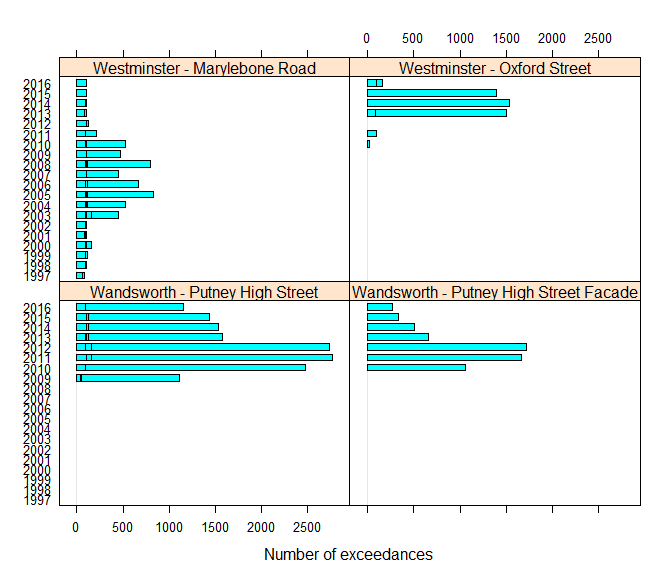
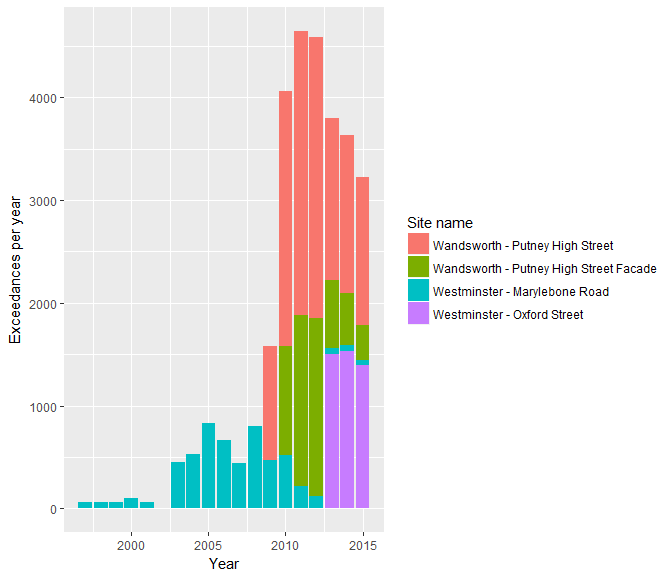
Add files via upload

Changed region(s): [[0.0, 0.0312, 0.9688, 1.0]]

diff --git a/README.md b/README.md
@@ -16,7 +16,7 @@ Justin Lingard : [prejjnl@gmail.com](prejjnl@gmail.com)
 The ```rlaqn``` package depends some additional CRAN packages. Check for missing dependencies and install them using the commands below:
 
 ```r
-> packs <- c('dplyr', 'htmlwidgets', 'jsonlite', 'lattice', 'leaflet', 'mapview')
+> packs <- c('dplyr', 'ggplot2', 'htmlwidgets', 'jsonlite', 'leaflet', 'mapview')
 > new.packages <- packs[!(packs %in% installed.packages()[, 'Package'])]
 > if(length(new.packages)) install.packages(new.packages)
 ```
@@ -36,13 +36,13 @@ Load the ```rlaqn``` package:
 
 # Functions
 ## ```get_laqn_aq_objectives```
-```get_laqn_aq_objectives``` imports pre-calculated air quality statistics from the London Air API for air pollutants for which national [air quality objectives](https://uk-air.defra.gov.uk/assets/documents/National_air_quality_objectives.pdf) exist, this includes:
+```get_laqn_aq_objectives``` imports the pre-calculated air quality objectives for air pollutants for which national [air quality objectives](https://uk-air.defra.gov.uk/assets/documents/National_air_quality_objectives.pdf) exist:
 
-+ Carbon monoxide, CO
-+ Nitrogen dioxide, NO<sub>2</sub>
-+ Ozone, O<sub>3</sub>
-+ Sulphur dioxide, SO<sub>2</sub>, and
-+ Particulate matter, PM<sub>10</sub>.
++ carbon monoxide, CO
++ nitrogen dioxide, NO<sub>2</sub>
++ ozone, O<sub>3</sub>
++ sulphur dioxide, SO<sub>2</sub>, and
++ particulate matter, PM<sub>10</sub>.
 
 Statistics are calculated for each air quality monitoring station in the LAQN, on a year-by-year basis. They are available from the inception of the network in 1993, when it was composed of a few stations, to the much larger, current day network. The use of pre-calculated statistics removes the need to caluclate these metrics from raw, hourly data, and ensures good consistency.
 
@@ -52,7 +52,7 @@ Note: *Ratification of the underlying air quality monitoring data, from which th
 
 The pre-calculated air quality statistics from the London Air API are comparable to those shown under the air quality objective values and capture rates on the Annual Air Quality Report for each air quality monitoring station in the LAQN, c.f., [Annual Air Quality Report for Westminster - Marylebone Road (01/01/2015 to 01/01/2016)](http://www.erg.kcl.ac.uk/weeklysitereport/asrstats.asp?site=MY1&startdate=1-Jan-2015).
 
-Site meta data, for closed and current air quality monitoring stations in the LAQN, can be obtained using the ```get_laqn_sites``` function, as decsribed below.
+Site meta data, for each past and current air quality monitoring station in the LAQN, can be obtained using the ```get_laqn_sites``` function, as decsribed below.
 
 ```r
 > get_laqn_aq_objectives <- function (theGroup = "London", metric = "Annual",
@@ -60,12 +60,12 @@ Site meta data, for closed and current air quality monitoring stations in the LA
                                       dates = 1980, datee = as.numeric(format(Sys.Date(), "%Y")),
                                       api_type = "Json")
 ```
-By running:
+Running:
 
 ```r
 > aq_objectives <- get_laqn_aq_objectives()
 ```
-returns all the air quality objectives since the inception of the network, even when the start year (```dates```) is set to 1980 (prior to commencement of the network) as data isn't retured for years where no data available.
+returns all the air quality objectives since the inception of the network, even when the start year (```dates```) is set to 1980.  No data is retured for years where there is no data available.
 
 ```r
 > head(aq_objectives)
@@ -99,11 +99,12 @@ returns all the air quality objectives since the inception of the network, even 
 6 1993                                                         Capture Rate (%)    93      YES
 ```
 ## ```get_laqn_sites```
-Site meta data, for closed and current air quality monitoring station in the LAQN, can be obtained using the ```get_laqn_sites``` function, e.g.,
+Site meta data, for each past and current air quality monitoring station in the LAQN, can be obtained using the ```get_laqn_sites``` function, e.g.,
 
 ```r
 > laqn_sites <- get_laqn_sites()
 ```
+
 
 ```r
 > head(laqn_sites)
@@ -177,22 +178,23 @@ Some words about Oxford Street
 ```r
 > # Load the plyr package
 > library(dplyr)
-> westminster_sites <- aq_objectives %>% filter(SiteCode == "MY1" | SiteCode == "WM6" & ObjectiveName == "200 ug/m3 as a 1 hour mean, not to be exceeded more than 18 times a year")
+> westminster_sites <- aq_objectives %>% filter(SiteCode == "MY1" | SiteCode == "WM6") %>% filter(ObjectiveName == "200 ug/m3 as a 1 hour mean, not to be exceeded more than 18 times a year")
 ```
-Frequent elevated hourly NO<sub>2</sub> concentrations occur on Putney High Street, the A209, as well.  Two air quality monitroing stations are located here: The first is Wandsworth - Putney High Street (WA7), the second Wandsworth - Putney High Street Facade (WA8). Putney High Street links traffic passing over Putney Bridge from central London to the South Circular Road (A205) and Upper Richmond Road, two major arterial roads in south London. Putney High Street has been described by some, as the most polluted street in south London.
+Frequent elevated hourly NO<sub>2</sub> concentrations also occur on Putney High Street, the A209.  Two air quality monitroing stations are located here: The first is Wandsworth - Putney High Street (WA7), the second Wandsworth - Putney High Street Facade (WA8). Putney High Street links traffic passing over Putney Bridge from central London to the South Circular Road (A205) and Upper Richmond Road, two major arterial roads in south London. Putney High Street has been described as the *most* polluted street in south London.
 
 ```r
-> putney_sites <- aq_objectives %>% filter(SiteCode == "WA7" | SiteCode == "WA8"& ObjectiveName == "200 ug/m3 as a 1 hour mean, not to be exceeded more than 18 times a year")
+> putney_sites <- aq_objectives %>% filter(SiteCode == "WA7" | SiteCode == "WA8") %>% filter( ObjectiveName == "200 ug/m3 as a 1 hour mean, not to be exceeded more than 18 times a year")
 ```
-Combining the two sets of data provides an intercomparison of the number of exceedances of the hourly NO<sub>2</sub> national air quality objective at the two air quality monitoring stations located on these roads by year over the past twenty years. Data for 2017 has been removed and data for 2016 should be taken as provisional, at the current time.
+Combining the two sets of data provides an intercomparison of the number of exceedances of the hourly NO<sub>2</sub> national air quality objective at the two air quality monitoring stations located on these roads by year over the past twenty years. Data for 2017 has been removed and data for 2016 should be taken as provisional.
 
 ```r
-> theData <- plyr::rbind.fill(marylebone_road, putney_sites)
-> lattice::barchart(factor(Year) ~ Value | SiteName, data = theData,
-                  xlab = "Number of exceedances", origin = 0))
+> theData <- plyr::rbind.fill(westminster_sites, putney_sites)
+> theData <- theData %>% filter(Year < as.integer(format(Sys.Date(), "%Y"))-1)
+> library(ggplot2)
+> ggplot(theData, aes(Year, Value, fill = SiteName)) + geom_bar(stat="identity") + scale_y_continuous(name ="Exceedances per year") + scale_fill_discrete(name="Site name")
 ```
-
 ![](README_files/figure-html/unnamed-chunk-14-1.png)<!-- -->
+Note: *Measurements at Putney High Street commenced in 2009 and the following year at Putney High Street.  Measurements at Oxford Street started in 2013.*
 
 Hourly NO<sub>2</sub> concentrations at all sites exceed the national air quality objective as the number of exceedances is more than the 18 permitted per year.  Whilst the number of exceedances at both sites has fallen in recent years the number of exceedances on Putney High Street was 1443 in 2015 year, whilst the number at Marylebone Road was 56.
 
@@ -215,5 +217,6 @@ Note: *The two sites in Putney appear coincident when plotted at* ```zoom = 12``
 > m  # Print the map
 ```
 
-
+<!--html_preserve--><div id="htmlwidget-26da957a0ba81e6a07f0" style="width:672px;height:576px;" class="leaflet html-widget"></div>
+<script type="application/json" data-for="htmlwidget-26da957a0ba81e6a07f0">{"x":{"setView":[[51.5,-0.17],12,[]],"calls":[{"method":"addTiles","args":["http://{s}.tile.openstreetmap.org/{z}/{x}/{y}.png",null,null,{"minZoom":0,"maxZoom":18,"maxNativeZoom":null,"tileSize":256,"subdomains":"abc","errorTileUrl":"","tms":false,"continuousWorld":false,"noWrap":false,"zoomOffset":0,"zoomReverse":false,"opacity":1,"zIndex":null,"unloadInvisibleTiles":null,"updateWhenIdle":null,"detectRetina":false,"reuseTiles":false,"attribution":"&copy; <a href=\"http://openstreetmap.org\">OpenStreetMap\u003c/a> contributors, <a href=\"http://creativecommons.org/licenses/by-sa/2.0/\">CC-BY-SA\u003c/a>"}]},{"method":"addMarkers","args":[["51.463429","51.4637206047191","51.52254","51.5139287404213"],["-0.215871","-0.215890144123119","-0.15459","-0.152792701881935"],null,null,null,{"clickable":true,"draggable":false,"keyboard":true,"title":"","alt":"","zIndexOffset":0,"opacity":1,"riseOnHover":false,"riseOffset":250},["Wandsworth - Putney High Street, http://www.londonair.org.uk/london/asp/publicdetails.asp?site=WA7","Wandsworth - Putney High Street Facade, http://www.londonair.org.uk/london/asp/publicdetails.asp?site=WA8","Westminster - Marylebone Road, http://www.londonair.org.uk/london/asp/publicdetails.asp?site=MY1","Westminster - Oxford Street, http://www.londonair.org.uk/london/asp/publicdetails.asp?site=WM6"],null,null]}],"limits":{"lat":[1,4],"lng":[1,4]}},"evals":[],"jsHooks":[]}</script><!--/html_preserve-->
 
